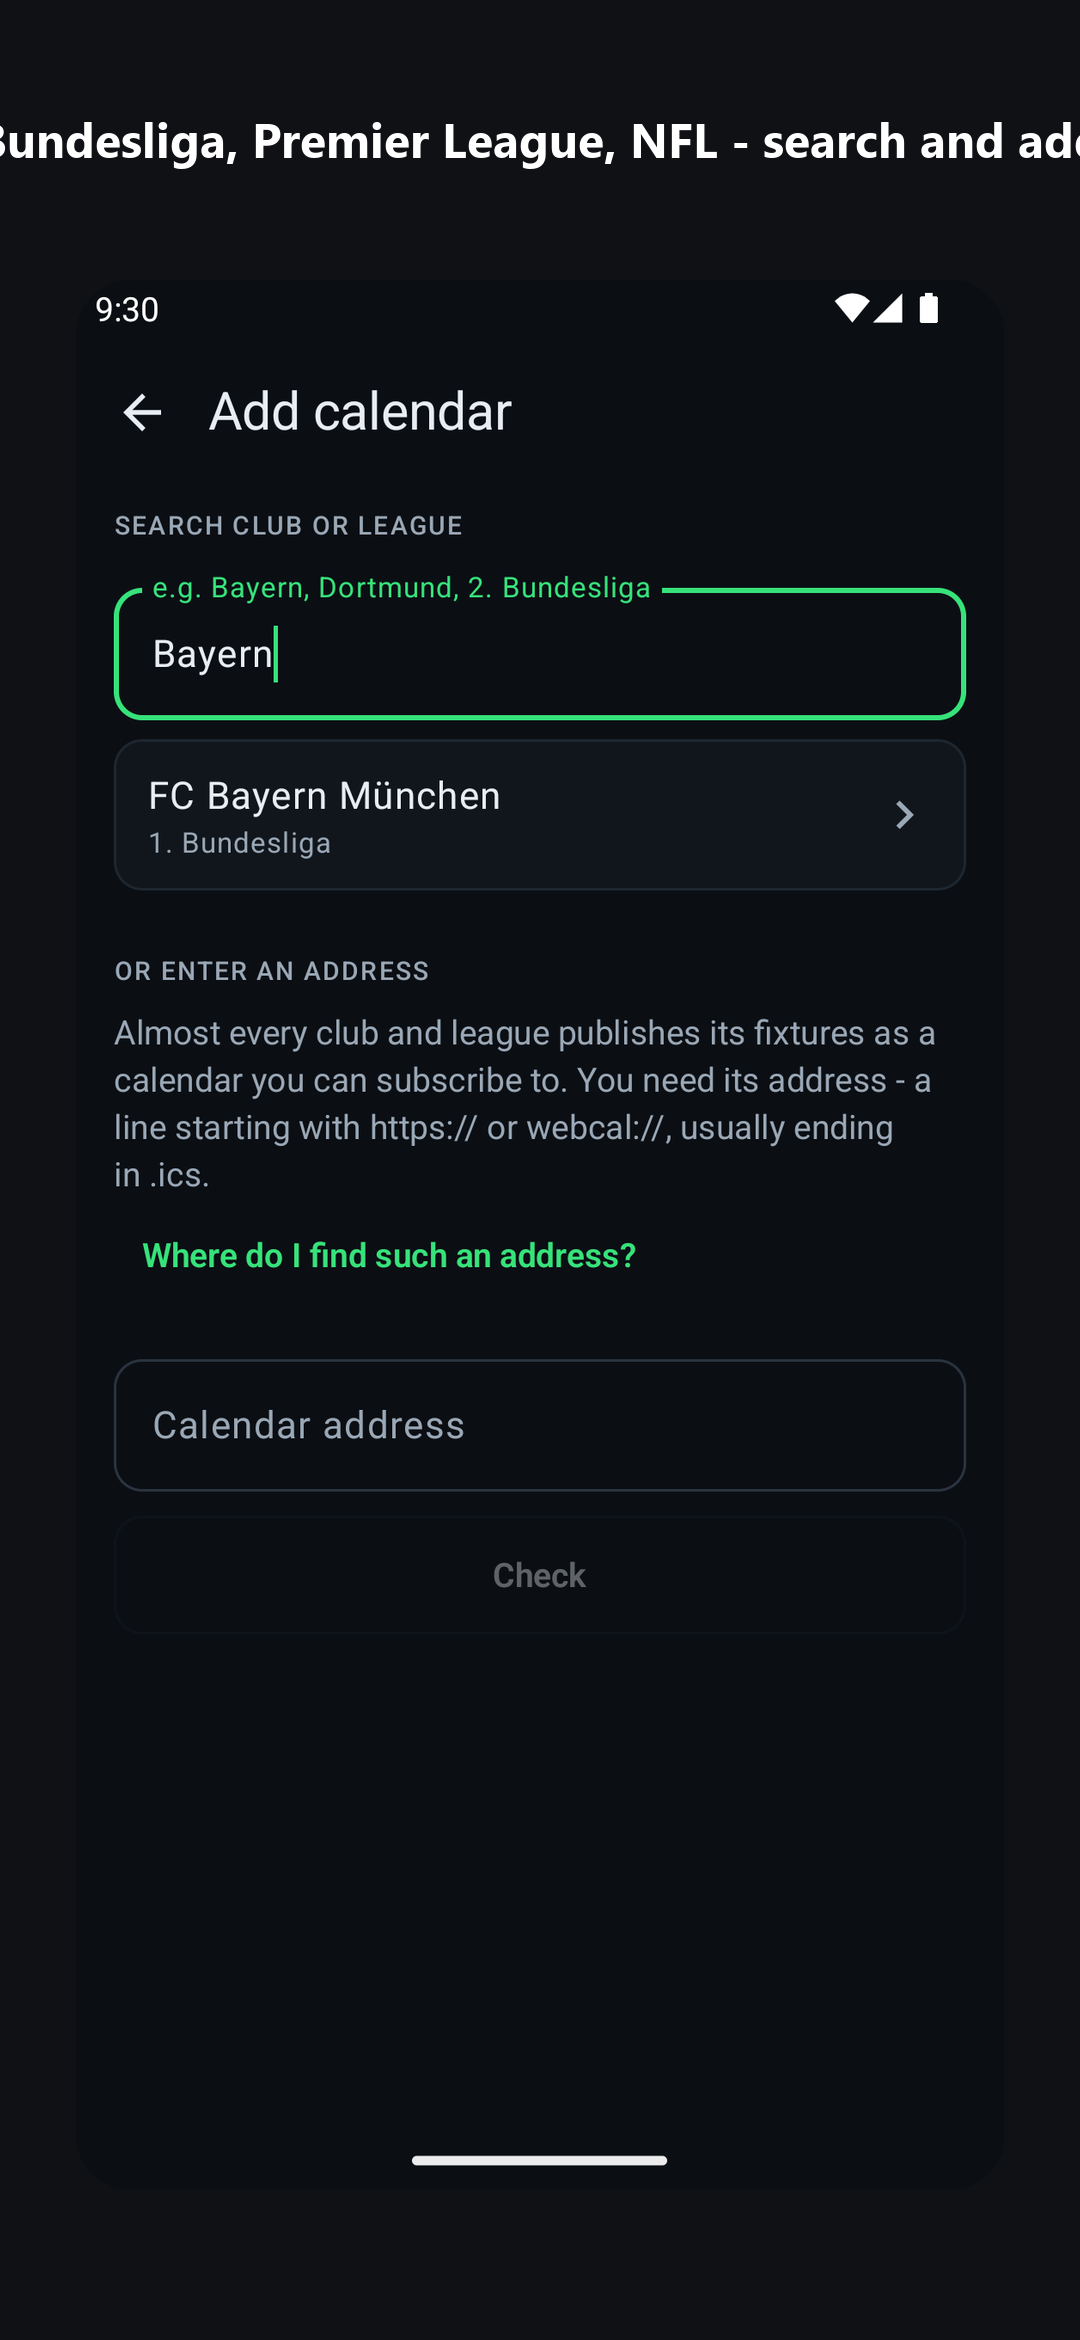
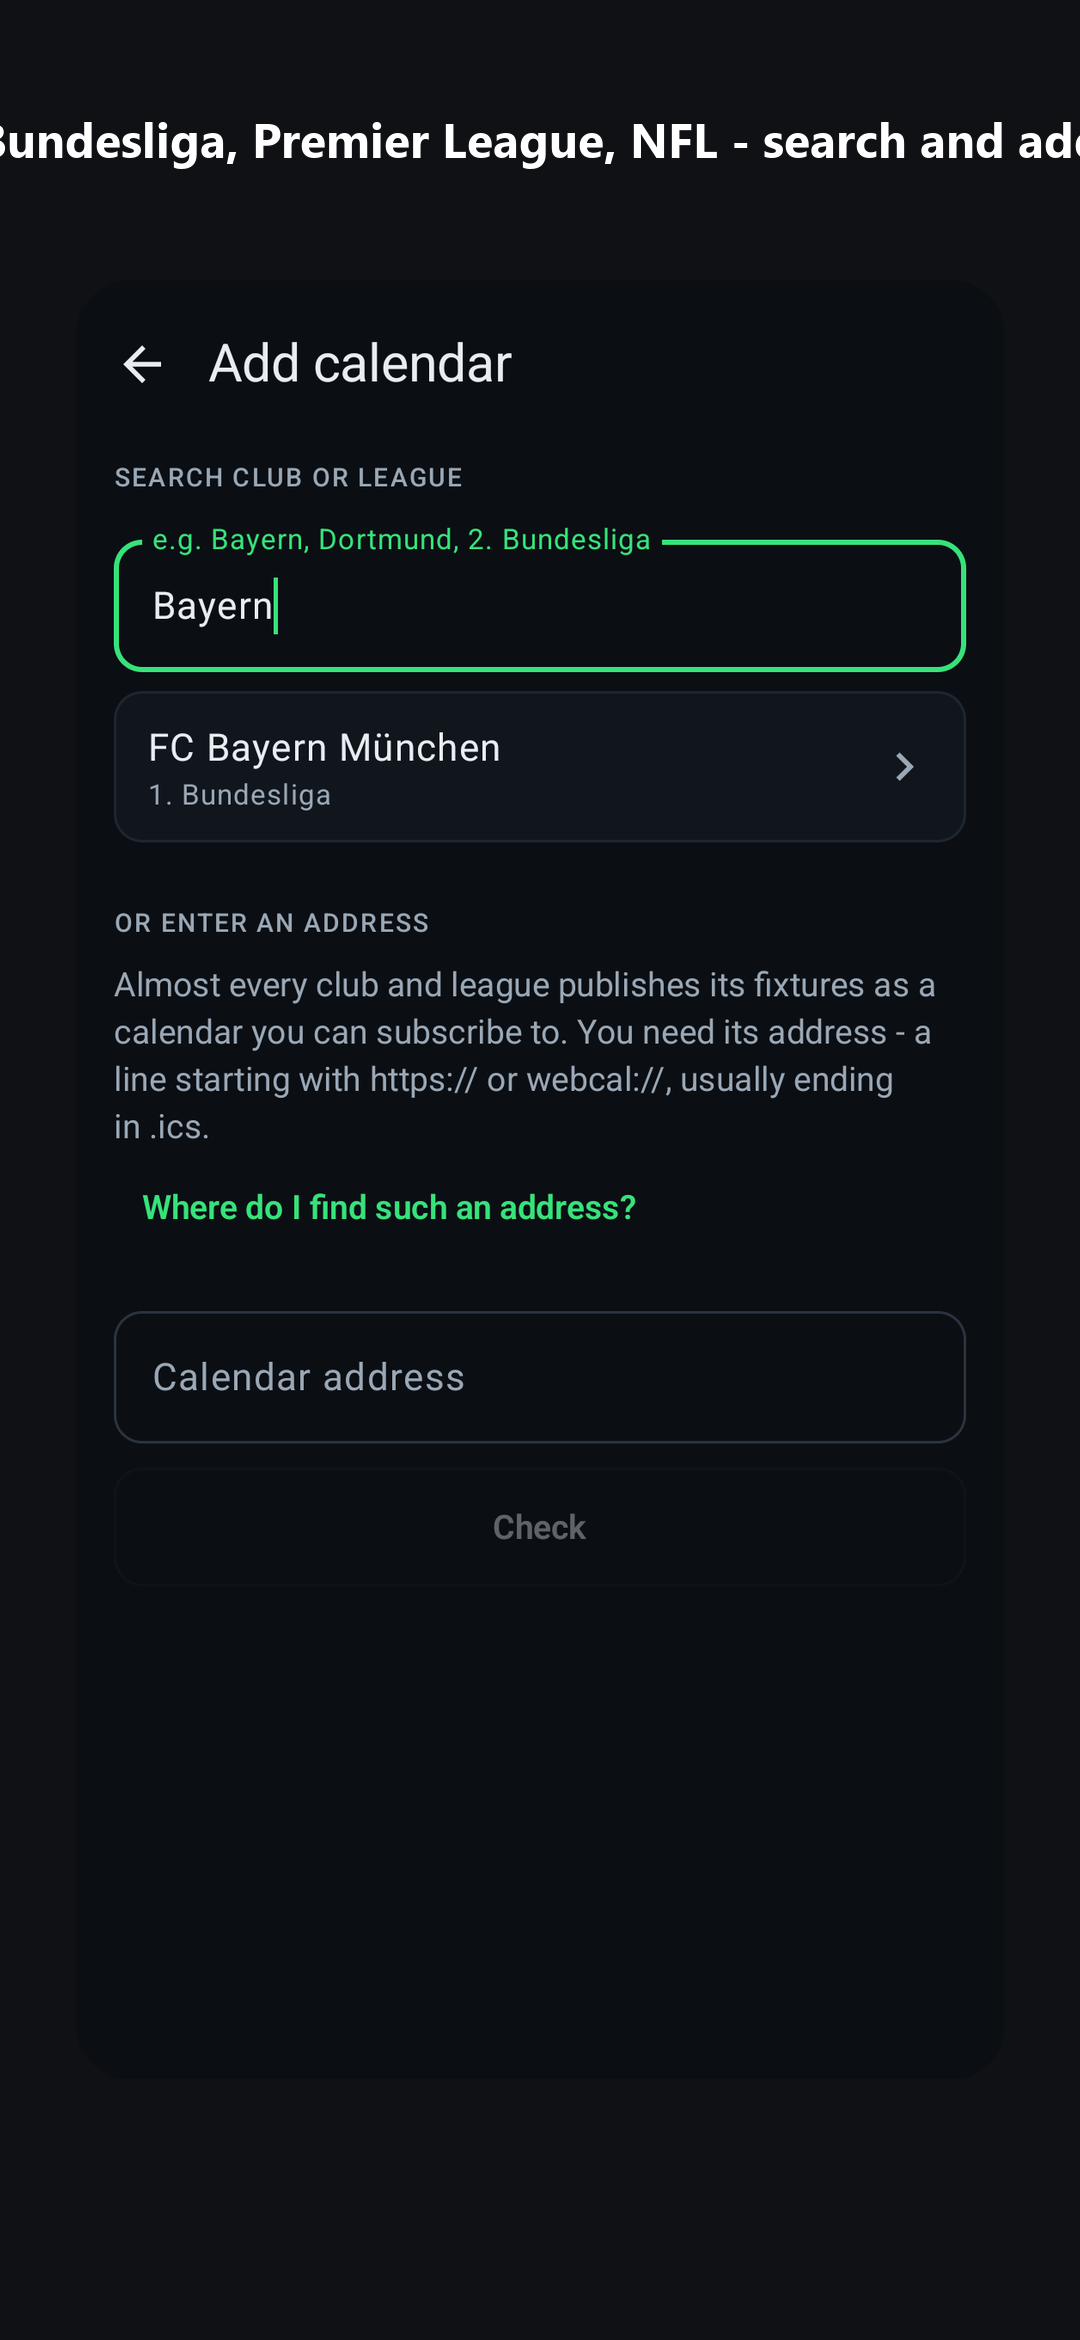
Store-Bilder ohne Android-Statusleiste, getrennte Pruefkonten
Apple lehnte die Screenshots ab (2.3.10, fremde Statusleiste). frame.py
schneidet Statusleiste und Gestenbalken ab; die Bilder taugen so fuer
beide Stores. Das Demo-Konto war weg - Googles Test-Roboter hatte es
ueber 'Konto loeschen' entfernt. Apple und Google bekommen getrennte Konten.

diff --git a/store/frame.py b/store/frame.py
@@ -15,6 +15,11 @@ ROOT = os.path.dirname(os.path.dirname(os.path.abspath(__file__)))
 BG = (15, 17, 21)
 GREEN = (55, 226, 122)
 
+# Rohbilder kommen aus dem Android-Emulator (1080 breit): Statusleiste 0-50,
+# Gestenbalken in den letzten ~70 Zeilen.
+CROP_TOP = 56
+CROP_BOTTOM = 72
+
 # Zielgroessen: Apple 6,9" (Pflichtformat), Google beliebig im 9:16-Bereich.
 TARGETS = {"ios": (1320, 2868), "android": (1080, 2340)}
 
@@ -49,6 +54,10 @@ def frame(src, target, caption):
     w, h = target
     canvas = Image.new("RGB", target, BG)
     shot = Image.open(src).convert("RGB")
+    # Android-Statusleiste oben und Gestenbalken unten abschneiden. Apple lehnt
+    # Bilder mit fremder Statusleiste ab (Richtlinie 2.3.10) - und ohne
+    # Leiste sind dieselben Aufnahmen fuer beide Stores brauchbar.
+    shot = shot.crop((0, CROP_TOP, shot.width, shot.height - CROP_BOTTOM))
     # Platz oben fuer die Zeile, unten etwas Luft; der Screenshot behaelt sein
     # Seitenverhaeltnis und bekommt runde Ecken.
     top = int(h * 0.12)
